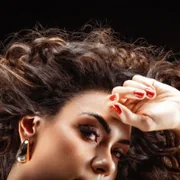
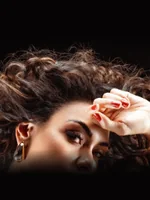
Lista: fotos do curso e dos botões em retrato, com respiro de estúdio

diff --git a/lista.html b/lista.html
@@ -92,7 +92,7 @@
   <section class="lk-bloco" aria-labelledby="t-curso">
     <p class="kicker">Curso</p>
     <article class="destaque">
-      <img src="img/lista/curso.webp" width="800" height="800" loading="lazy" alt="Dra. Kiss Cunha, curso de massoterapia">
+      <img src="img/lista/curso.webp" width="800" height="1000" loading="lazy" alt="Dra. Kiss Cunha, curso de massoterapia">
       <div class="destaque__txt">
         <span class="destaque__selo">Curso prático · poucas vagas</span>
         <h2 id="t-curso">Massoterapia <em>para iniciantes</em></h2>
@@ -109,27 +109,27 @@
 
     <p class="lk-grupo">Atendimentos</p>
     <ul class="links">
-      <li><a href="#" data-wa="gostaria de mais informações sobre a Massoterapia"><img src="img/lista/t-massoterapia.webp" alt="" width="180" height="180"><span><strong>Massoterapia</strong><small>Massagens estéticas e terapêuticas</small></span><svg><use href="#seta"/></svg></a></li>
-      <li><a href="#" data-wa="gostaria de mais informações sobre a Harmonização Facial"><img src="img/lista/t-facial.webp" alt="" width="180" height="180"><span><strong>Harmonização facial</strong><small>Equilíbrio e traços naturais</small></span><svg><use href="#seta"/></svg></a></li>
-      <li><a href="#" data-wa="gostaria de mais informações sobre a Harmonização Corporal"><img src="img/lista/t-corporal.webp" alt="" width="180" height="180"><span><strong>Harmonização corporal</strong><small>Contorno, firmeza e medidas</small></span><svg><use href="#seta"/></svg></a></li>
-      <li><a href="#" data-wa="gostaria de mais informações sobre o Botox Day"><img src="img/lista/t-botox.webp" alt="" width="180" height="180"><span><strong>Botox Day</strong><small>Datas na agenda mensal</small></span><svg><use href="#seta"/></svg></a></li>
+      <li><a href="#" data-wa="gostaria de mais informações sobre a Massoterapia"><img src="img/lista/t-massoterapia.webp" alt="" width="150" height="200"><span><strong>Massoterapia</strong><small>Massagens estéticas e terapêuticas</small></span><svg><use href="#seta"/></svg></a></li>
+      <li><a href="#" data-wa="gostaria de mais informações sobre a Harmonização Facial"><img src="img/lista/t-facial.webp" alt="" width="150" height="200"><span><strong>Harmonização facial</strong><small>Equilíbrio e traços naturais</small></span><svg><use href="#seta"/></svg></a></li>
+      <li><a href="#" data-wa="gostaria de mais informações sobre a Harmonização Corporal"><img src="img/lista/t-corporal.webp" alt="" width="150" height="200"><span><strong>Harmonização corporal</strong><small>Contorno, firmeza e medidas</small></span><svg><use href="#seta"/></svg></a></li>
+      <li><a href="#" data-wa="gostaria de mais informações sobre o Botox Day"><img src="img/lista/t-botox.webp" alt="" width="150" height="200"><span><strong>Botox Day</strong><small>Datas na agenda mensal</small></span><svg><use href="#seta"/></svg></a></li>
     </ul>
 
     <p class="lk-grupo">Cursos &amp; eventos</p>
     <ul class="links">
-      <li><a href="#" data-wa="gostaria de mais informações sobre o Curso VIP Sentir"><img src="img/lista/t-sentir.webp" alt="" width="180" height="180"><span><strong>Curso VIP Sentir</strong><small>Terapias manuais</small></span><svg><use href="#seta"/></svg></a></li>
-      <li><a href="#" data-wa="gostaria de mais informações sobre os Eventos"><img src="img/lista/t-eventos.webp" alt="" width="180" height="180"><span><strong>Eventos</strong><small>Saiba mais</small></span><svg><use href="#seta"/></svg></a></li>
+      <li><a href="#" data-wa="gostaria de mais informações sobre o Curso VIP Sentir"><img src="img/lista/t-sentir.webp" alt="" width="150" height="200"><span><strong>Curso VIP Sentir</strong><small>Terapias manuais</small></span><svg><use href="#seta"/></svg></a></li>
+      <li><a href="#" data-wa="gostaria de mais informações sobre os Eventos"><img src="img/lista/t-eventos.webp" alt="" width="150" height="200"><span><strong>Eventos</strong><small>Saiba mais</small></span><svg><use href="#seta"/></svg></a></li>
     </ul>
 
     <p class="lk-grupo">Seja modelo</p>
     <ul class="links">
-      <li><a href="#" data-wa="gostaria de mais informações sobre ser modelo"><img src="img/lista/t-modelo.webp" alt="" width="180" height="180"><span><strong>Seja modelo</strong><small>Quero participar</small></span><svg><use href="#seta"/></svg></a></li>
-      <li><a href="#" data-wa="gostaria de mais informações sobre ser paciente modelo de Harmonização Facial"><img src="img/lista/t-modelo-facial.webp" alt="" width="180" height="180"><span><strong>Paciente modelo · Facial</strong><small>Harmonização facial</small></span><svg><use href="#seta"/></svg></a></li>
-      <li><a href="#" data-wa="gostaria de mais informações sobre ser paciente modelo de Remodelação Glútea"><img src="img/lista/t-gluteo.webp" alt="" width="180" height="180"><span><strong>Paciente modelo · Glútea</strong><small>Remodelação glútea</small></span><svg><use href="#seta"/></svg></a></li>
+      <li><a href="#" data-wa="gostaria de mais informações sobre ser modelo"><img src="img/lista/t-modelo.webp" alt="" width="150" height="200"><span><strong>Seja modelo</strong><small>Quero participar</small></span><svg><use href="#seta"/></svg></a></li>
+      <li><a href="#" data-wa="gostaria de mais informações sobre ser paciente modelo de Harmonização Facial"><img src="img/lista/t-modelo-facial.webp" alt="" width="150" height="200"><span><strong>Paciente modelo · Facial</strong><small>Harmonização facial</small></span><svg><use href="#seta"/></svg></a></li>
+      <li><a href="#" data-wa="gostaria de mais informações sobre ser paciente modelo de Remodelação Glútea"><img src="img/lista/t-gluteo.webp" alt="" width="150" height="200"><span><strong>Paciente modelo · Glútea</strong><small>Remodelação glútea</small></span><svg><use href="#seta"/></svg></a></li>
     </ul>
 
     <ul class="links links--site">
-      <li><a href="index.html"><img src="img/lista/t-site.webp" alt="" width="180" height="180"><span><strong>Site oficial</strong><small>Conheça a Dra. Kiss Cunha</small></span><svg><use href="#seta"/></svg></a></li>
+      <li><a href="index.html"><img src="img/lista/t-site.webp" alt="" width="150" height="200"><span><strong>Site oficial</strong><small>Conheça a Dra. Kiss Cunha</small></span><svg><use href="#seta"/></svg></a></li>
     </ul>
   </section>
 

diff --git a/css/lista.css b/css/lista.css
@@ -58,8 +58,8 @@
 .destaque{padding:10px;border-radius:28px;border:1px solid rgba(191,162,111,.4);
   background:linear-gradient(160deg,rgba(191,162,111,.14),rgba(255,255,255,.035) 45%);
   -webkit-backdrop-filter:var(--blur);backdrop-filter:var(--blur);box-shadow:var(--glass-brilho),0 20px 60px -24px rgba(191,162,111,.35)}
-.destaque img{width:100%;aspect-ratio:1/1;object-fit:cover;object-position:center top;border-radius:20px 20px 0 0}
-.destaque__txt{padding:6px 14px 18px;text-align:center}
+.destaque img{width:100%;aspect-ratio:4/5;object-fit:cover;border-radius:20px}
+.destaque__txt{padding:22px 14px 18px;text-align:center}
 .destaque__selo{display:inline-block;padding:7px 14px;border-radius:999px;font:400 10px var(--corpo);letter-spacing:.22em;text-transform:uppercase;color:#F1DFB3;
   background:rgba(191,162,111,.14);border:1px solid rgba(191,162,111,.45)}
 .destaque h2{font-size:42px;margin:16px 0 10px;line-height:1}
@@ -75,7 +75,7 @@
   background:var(--glass);border:1px solid var(--glass-borda);-webkit-backdrop-filter:var(--blur);backdrop-filter:var(--blur);box-shadow:var(--glass-brilho);
   transition:border-color .25s,background .25s,transform .25s}
 .links a:hover{border-color:rgba(191,162,111,.5);background:rgba(191,162,111,.1);transform:translateX(3px)}
-.links img{width:80px;height:80px;border-radius:16px;object-fit:cover;flex:none}
+.links img{width:72px;height:96px;border-radius:16px;object-fit:cover;flex:none}
 .links span{flex:1;min-width:0}
 .links strong{display:block;font:500 23px/1.15 var(--display);color:var(--off);margin-bottom:3px}
 .links small{display:block;font-size:13px;color:var(--txt);white-space:nowrap;overflow:hidden;text-overflow:ellipsis}
